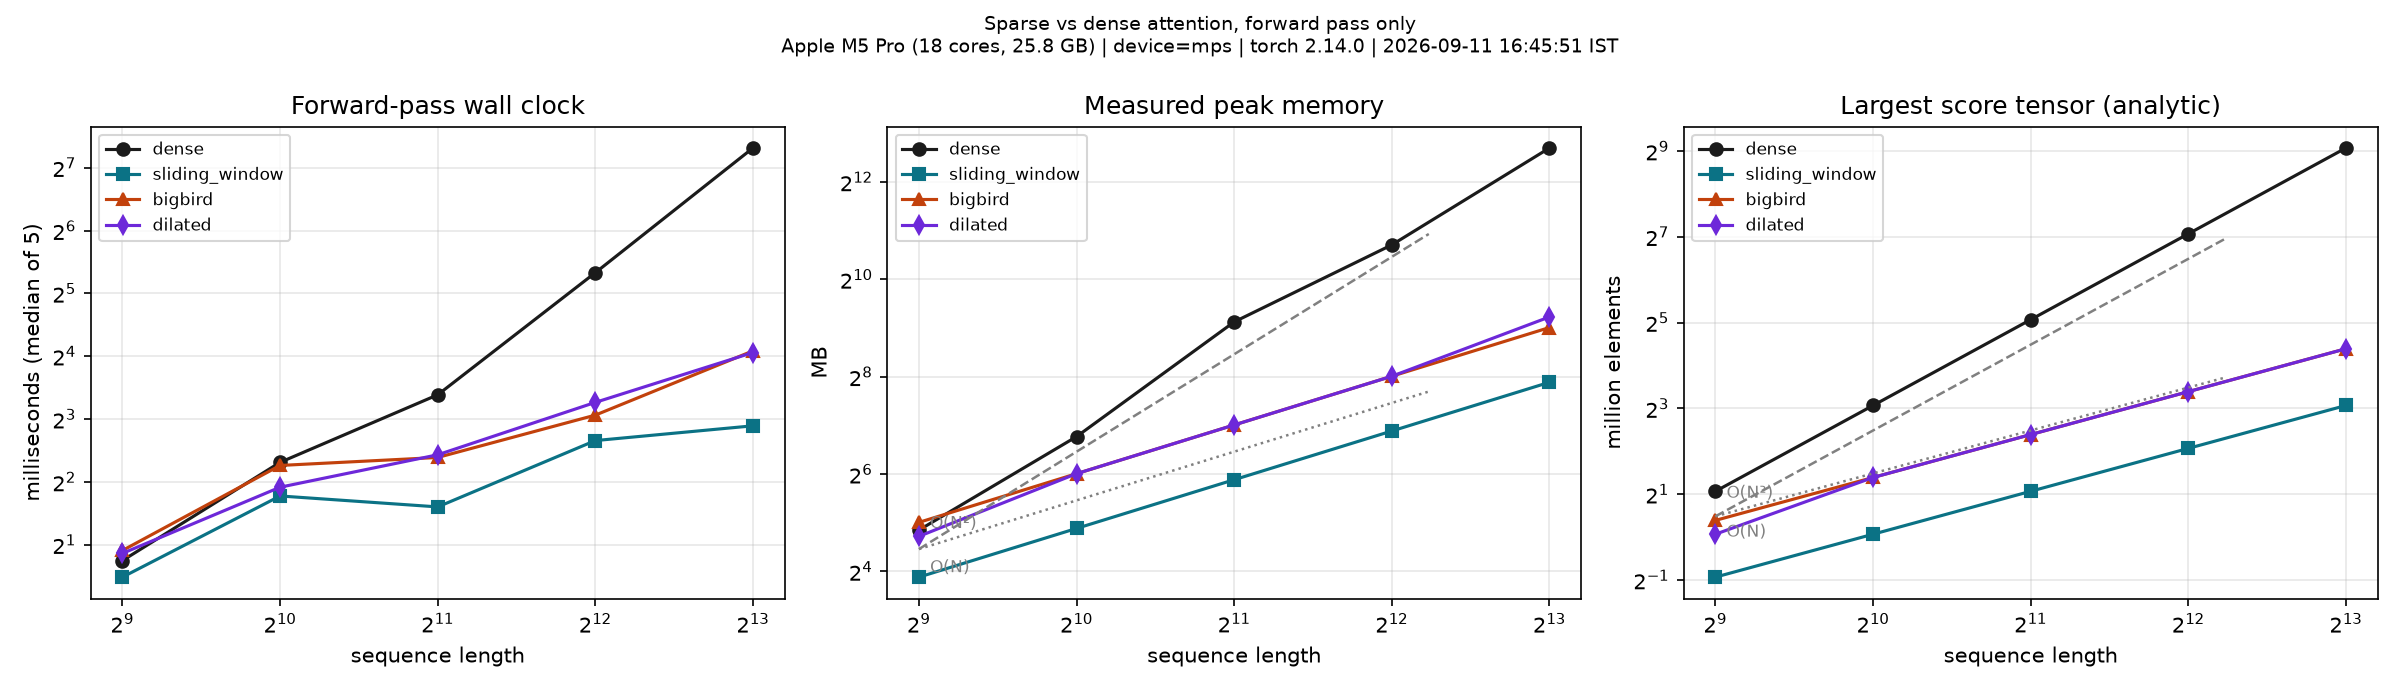
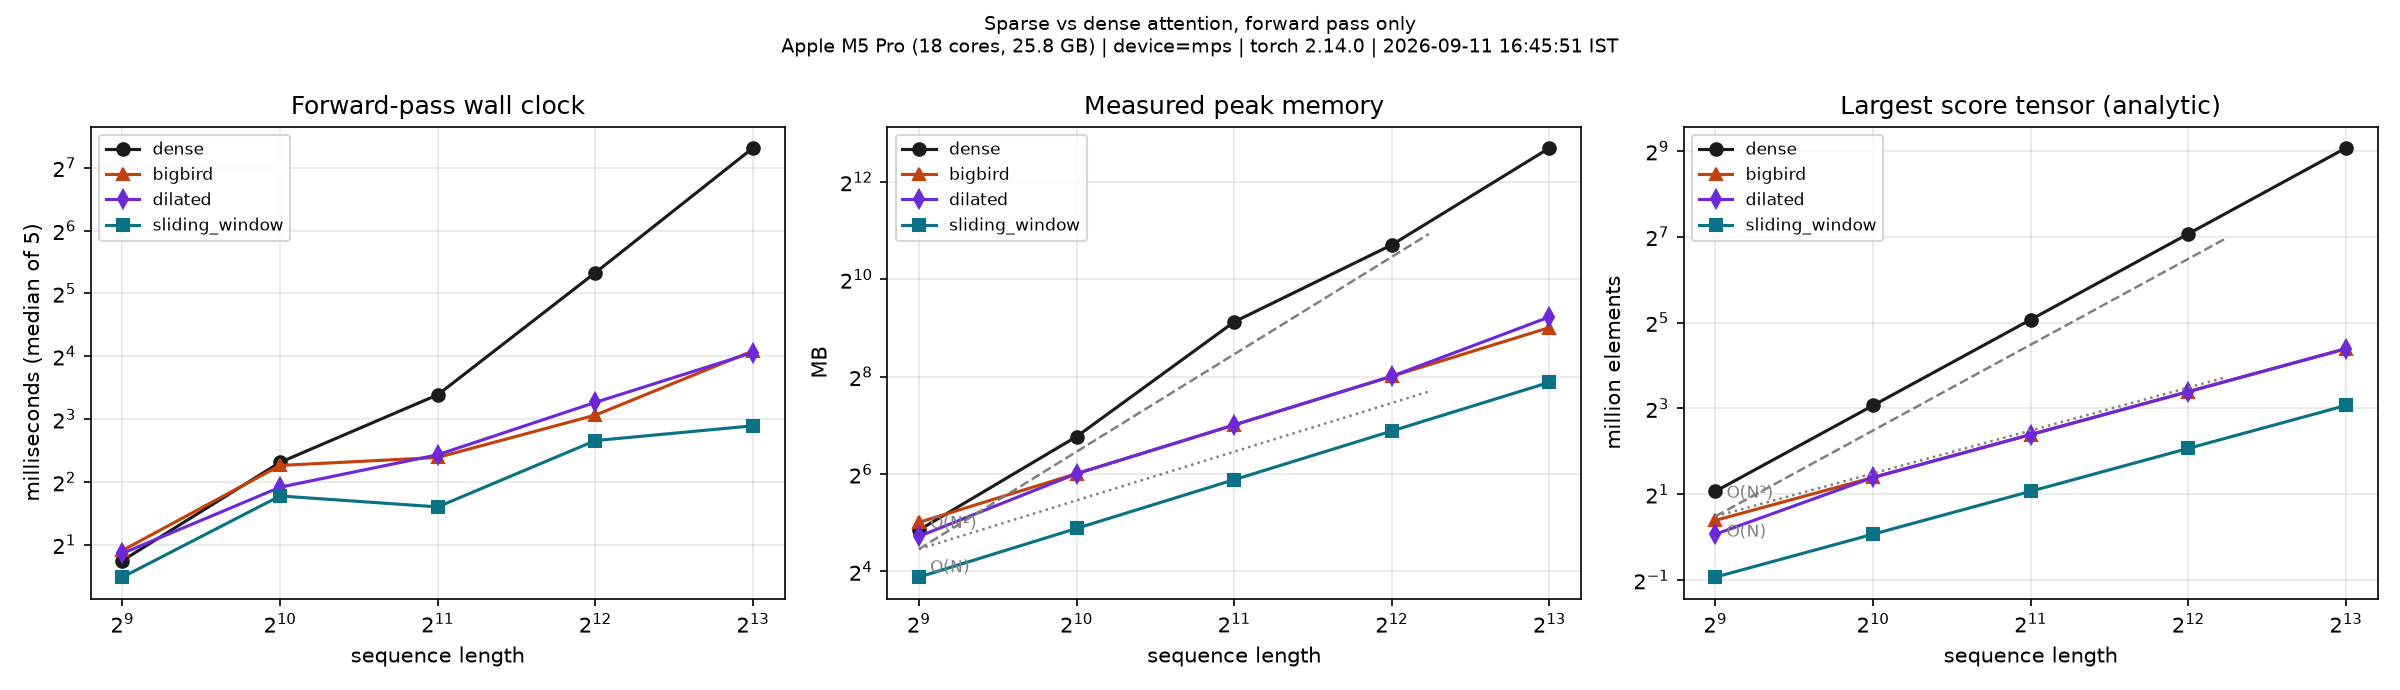
Make plot generation deterministic
plot_benchmark sorted a set of pattern names by a boolean key:

    sorted({r["pattern"] for r in rows}, key=lambda p: p != "dense")

That puts 'dense' first and leaves the three sparse names in set-iteration
order, which depends on PYTHONHASHSEED. Their draw order therefore changed
between runs, and so did the pixels wherever the curves overlap: regenerating
the plots from unchanged committed data produced a diff in benchmark.png and
speedup.png. quality.png was unaffected because it iterates a dict, which is
insertion-ordered -- that asymmetry is what made the bug visible.

Sorting on (p != 'dense', p) restores a total order. Verified byte-identical
across consecutive runs and across PYTHONHASHSEED 1 vs 99999.

Changed region(s): [[0.6875, 0.2435, 0.7812, 0.3348], [0.375, 0.2435, 0.4688, 0.3348], [0.0312, 0.2435, 0.125, 0.3348]]

diff --git a/scripts/plot_results.py b/scripts/plot_results.py
@@ -31,7 +31,11 @@ def plot_benchmark():
         print("no benchmark.json, skipping"); return
     d = json.loads(path.read_text())
     rows = [r for r in d["rows"] if r.get("ok")]
-    pats = sorted({r["pattern"] for r in rows}, key=lambda p: p != "dense")
+    # Sort on (is-not-dense, name), not on the boolean alone.  Sorting a *set* by
+    # a bool puts "dense" first and leaves the rest in set-iteration order, which
+    # depends on PYTHONHASHSEED -- so the draw order of the three sparse curves,
+    # and hence the pixels where they overlap, changed between runs.
+    pats = sorted({r["pattern"] for r in rows}, key=lambda p: (p != "dense", p))
 
     fig, axes = plt.subplots(1, 3, figsize=(16, 4.6))
     for p in pats:
